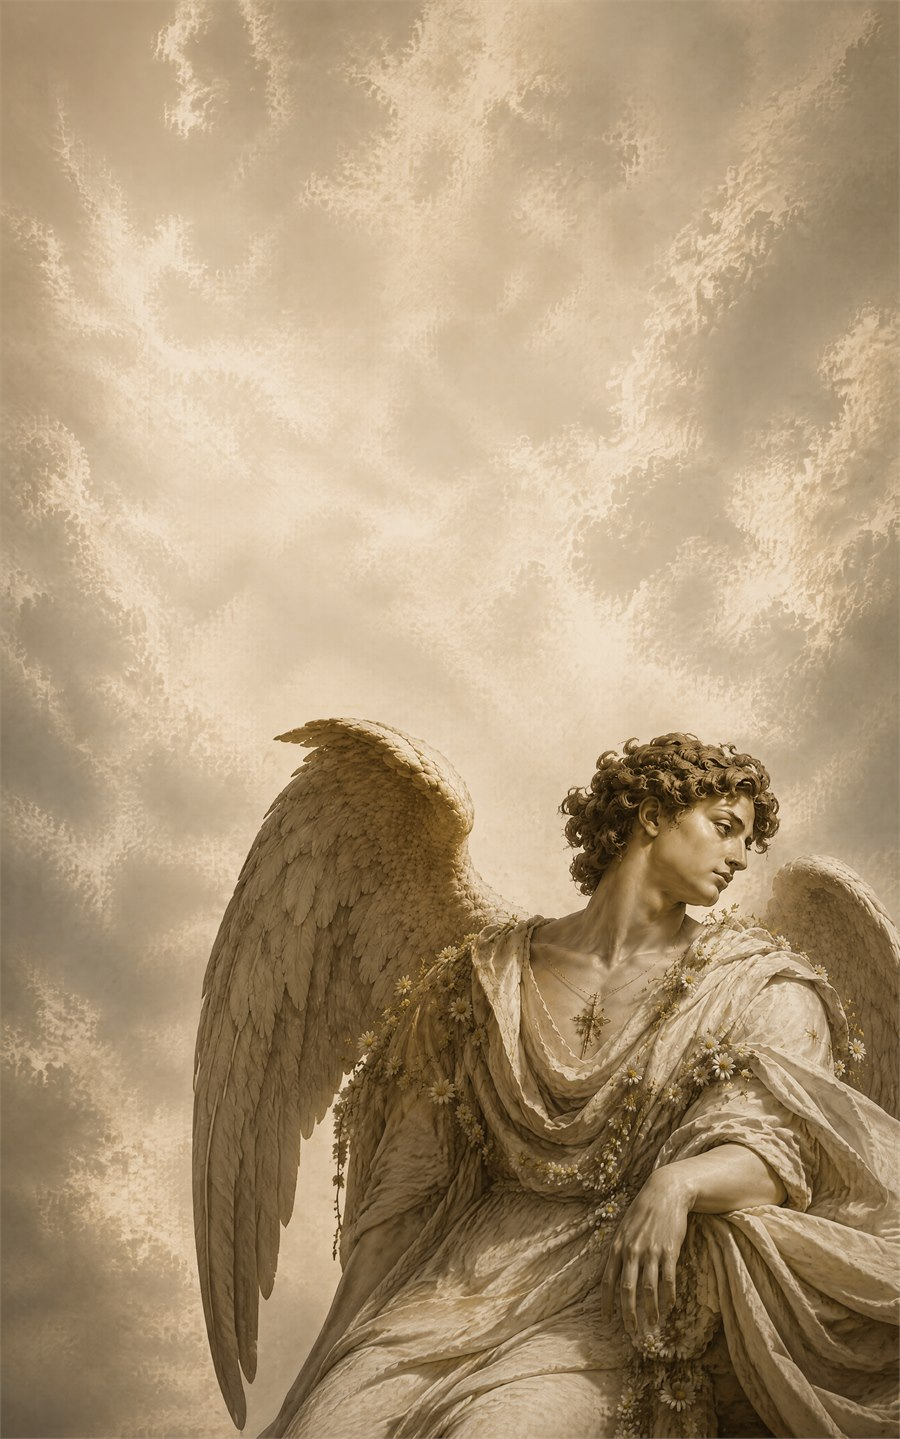
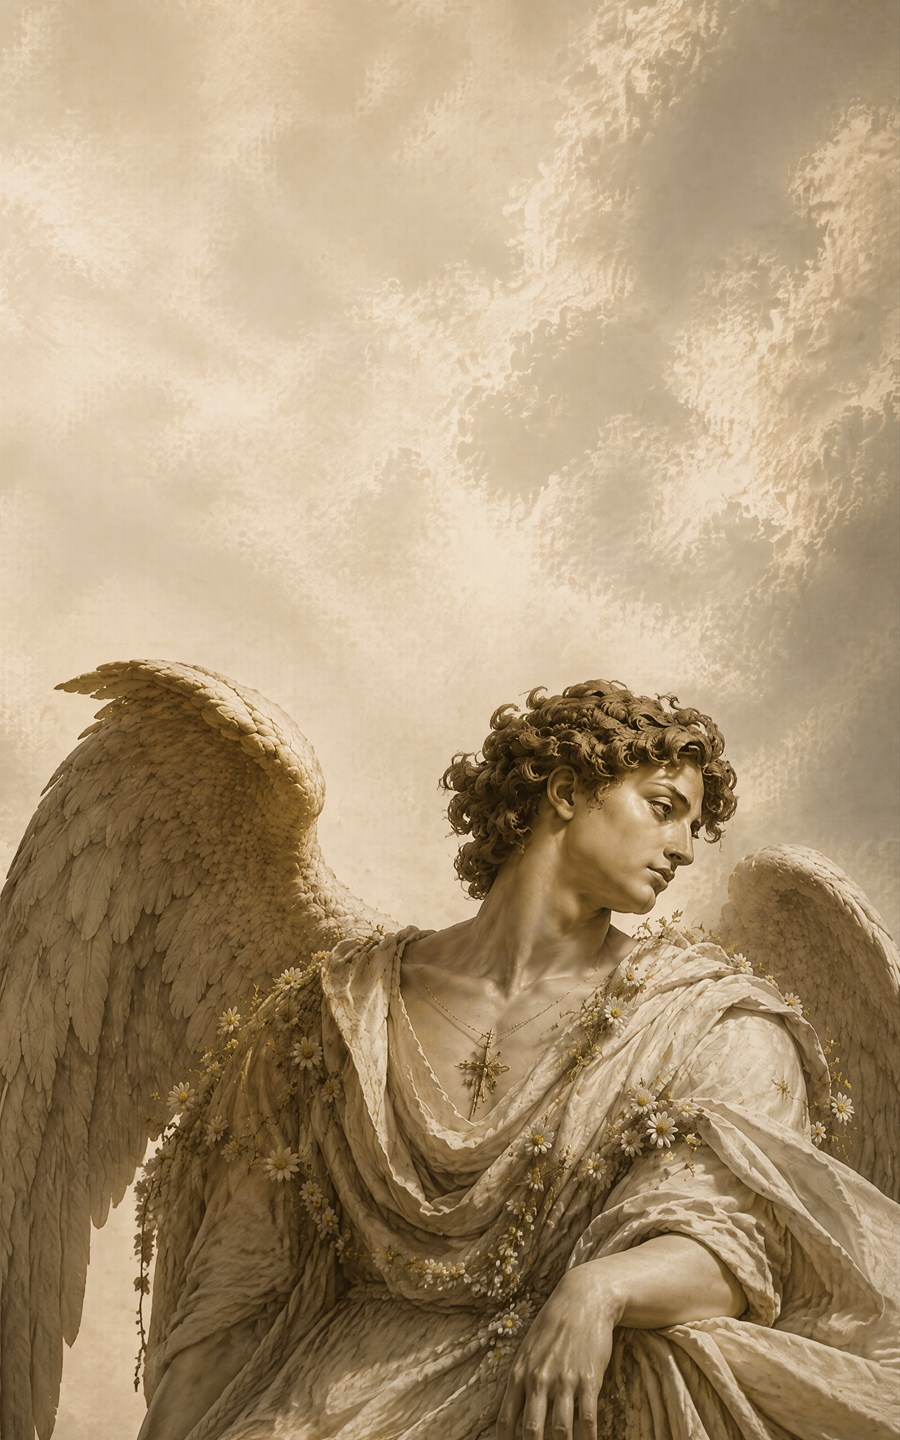
fix(site): reveal the angel portrait in the hero plate

diff --git a/src/styles.css b/src/styles.css
@@ -64,7 +64,7 @@ ul, ol { margin: 0; padding: 0; list-style: none; }
 .museum-hero { position: relative; min-height: calc(88svh - 12px); padding-top: 64px; overflow: hidden; border-bottom: 1px solid var(--line); background: #dfcfad; }
 .hero-clouds { position: absolute; inset: -7%; background: url('/assets/museum-clouds.jpg') center / cover no-repeat; }
 .hero-vignette { position: absolute; inset: 0; background: rgba(236, 228, 210, .28); box-shadow: inset 0 0 140px rgba(69, 47, 19, .2); pointer-events: none; }
-.hero-stage { position: relative; min-height: calc(88svh - 116px); display: grid; grid-template-columns: minmax(0, 1fr) minmax(280px, 390px); align-items: center; gap: 54px; padding-block: 52px 44px; }
+.hero-stage { position: relative; min-height: calc(88svh - 116px); display: grid; grid-template-columns: minmax(0, 1fr) minmax(300px, 420px); align-items: center; gap: 54px; padding-block: 52px 44px; }
 .hero-copy { position: relative; z-index: 2; max-width: 860px; }
 .hero-badge { max-width: 590px; margin-bottom: 24px; color: #715d38; font: 700 10px/1.6 var(--font-mono); text-transform: uppercase; }
 .hero-copy h1 { font: 400 112px/.82 var(--font-wordmark); }
@@ -81,9 +81,9 @@ ul, ol { margin: 0; padding: 0; list-style: none; }
 .text-link::after { content: ''; position: absolute; }
 .text-link:hover { color: var(--gold); }
 .text-link.light { color: var(--bone); }
-.hero-plate { position: relative; z-index: 1; justify-self: end; width: min(100%, 350px); margin: 0; }
+.hero-plate { position: relative; z-index: 1; justify-self: end; width: min(100%, 380px); margin: 0; }
 .museum-mat { padding: 13px; border: 1px solid rgba(26, 20, 13, .28); background: #dfd1b7; box-shadow: 18px 22px 50px rgba(53, 37, 16, .18); }
-.museum-mat img { width: 100%; aspect-ratio: 2160/3453; object-fit: cover; object-position: center 60%; filter: sepia(.15) contrast(.94); }
+.museum-mat img { width: 100%; aspect-ratio: 5/8; object-fit: cover; object-position: center; filter: sepia(.15) contrast(.94); }
 .hero-plate figcaption { padding-top: 10px; color: #6d5731; font: 700 8px var(--font-mono); text-align: right; }
 .hero-stage blockquote { position: absolute; z-index: 2; left: 0; bottom: 18px; max-width: 520px; color: rgba(26, 20, 13, .68); font: italic 15px var(--font-display); }
 .hero-record { position: relative; z-index: 3; min-height: 52px; display: flex; align-items: center; justify-content: space-between; gap: 18px; border-top: 1px solid var(--line); font: 700 8px var(--font-mono); color: #715d38; }

diff --git a/src/App.jsx b/src/App.jsx
@@ -130,7 +130,7 @@ function Hero({ language, openModal }) {
         </div>
       </div>
       <figure className="hero-plate" data-hero-plate>
-        <div className="museum-mat"><img src="/assets/museum-angel.jpg" alt="" width="900" height="1439" fetchPriority="high" /></div>
+        <div className="museum-mat"><img src="/assets/museum-angel.jpg" alt="" width="900" height="1440" fetchPriority="high" /></div>
         <figcaption>PLATE I · VERIFIABLE INTELLIGENCE</figcaption>
       </figure>
       <blockquote data-hero-meta>“{tx(en.heroQuote, pt.heroQuote, language)}”</blockquote>
